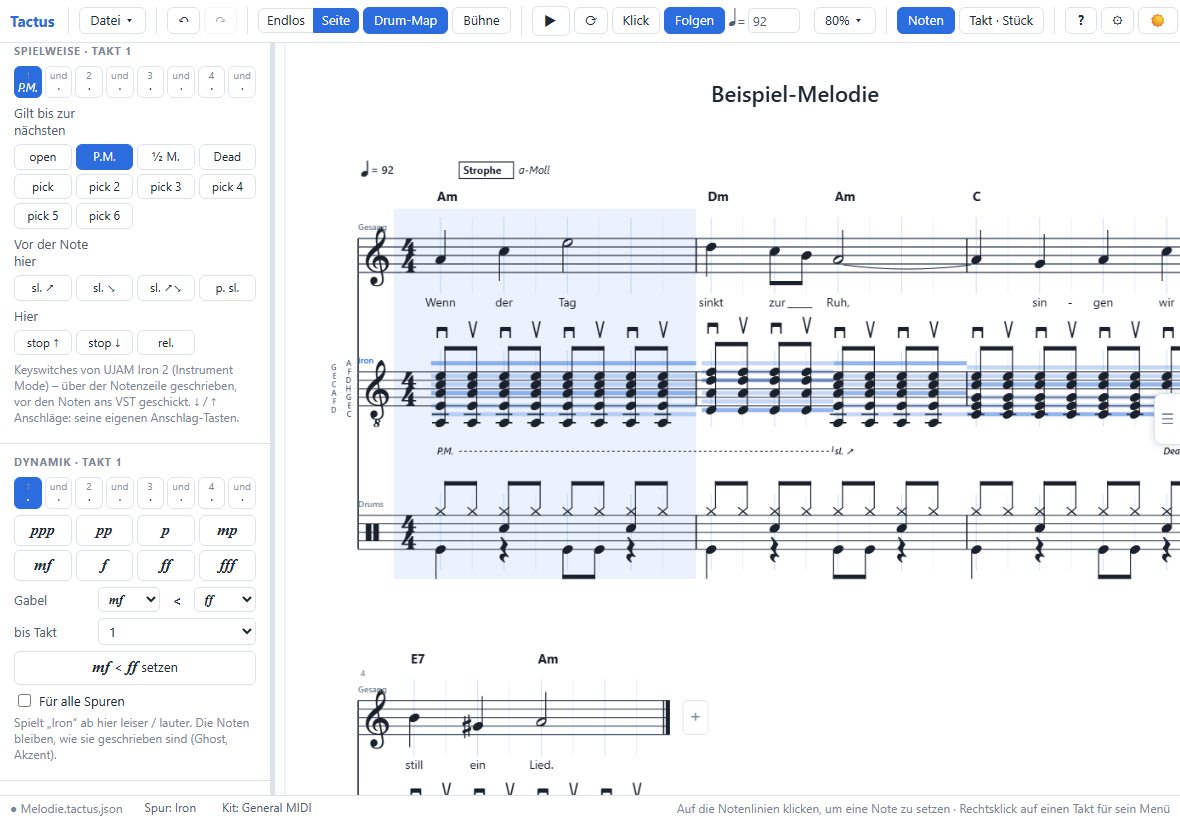
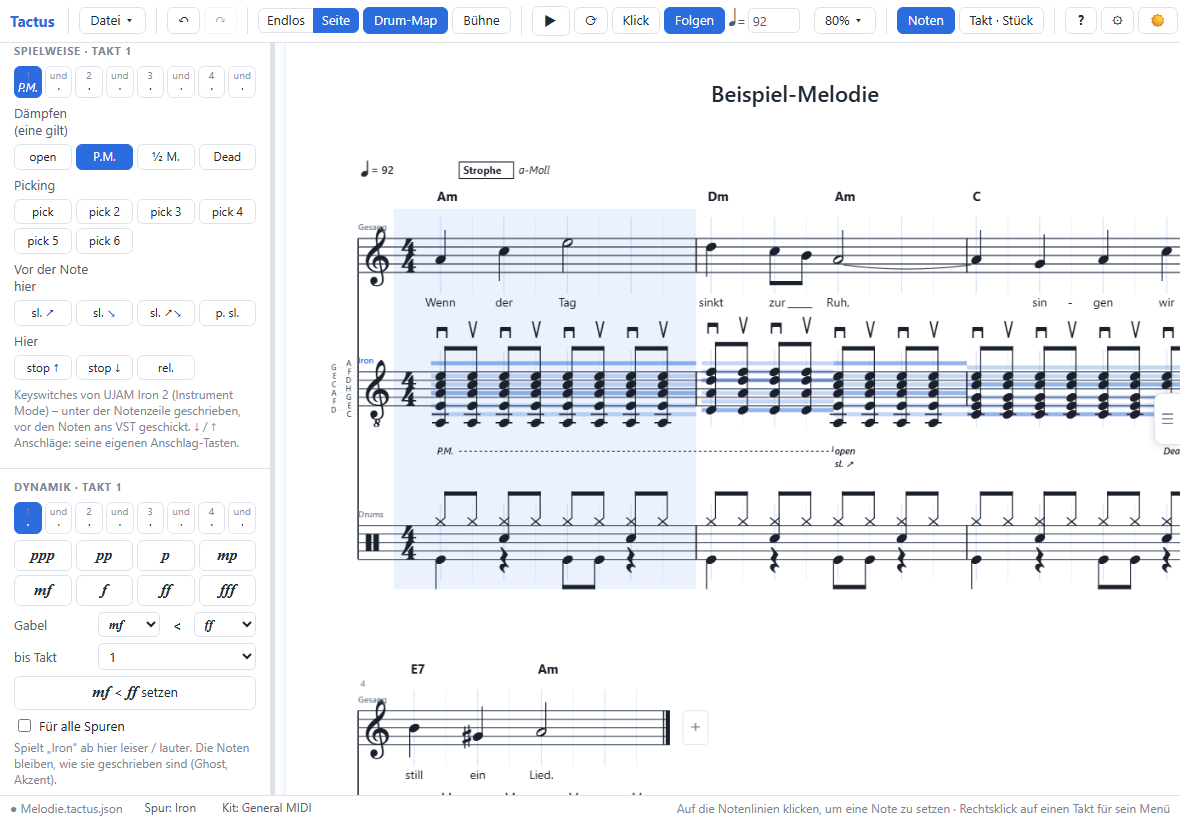
Iron 2 keyswitches after testing: C1 is free - slides on D1 / E1 / F1, pick slide G1; trigger mode on (D#1) sent unseen at the start (else Iron plays no notes); down / up stroke keys held while the chord sounds; open / P.M. / half / dead one group (one holds), picking its own; "open" shown; slides, 

diff --git a/js/keyswitch.js b/js/keyswitch.js
@@ -6,7 +6,9 @@
  *
  *   track.ksw = { tpl, name, c3, keys: [{ id, name, short, note, kind }] }   (only when set; saved with the score)
  *     c3     the MIDI note the VST calls C3 (60 or 48) - its keys and its play range follow it
- *     kind   'art'   a way of playing (dead, muted, half muted, open, picking): held until the next one
+ *     init   keys sent at the start, unseen (Iron: trigger mode on - else its notes do not play)
+ *     group  ways of playing of one group replace each other (Iron: open / muted / half / dead; picking its own)
+ *     kind   'art'   a way of playing (dead, muted, half muted, open, picking): held until the next one of its group
  *            'once'  before the note at its place (a slide)
  *            'event' at its place (stop, release)
  *            'down' / 'up'  sent before a chord struck down / up (note.stroke) - the VST strums it itself
@@ -23,21 +25,23 @@
 
   // UJAM Iron 2, Instrument Mode (the manual's key switch table; play range C3 … F5 = D2 … F4, four tones at a time)
   KS.TEMPLATES = [{
-    tpl: 'ujam-iron2', name: 'UJAM Iron 2 (Instrument Mode)', c3: 60, noteShift: 12, poly: 4,
+    // (checked with Iron 2: C3 = 60; C1 is free - the slides start on D1; D#1 trigger mode on is needed, else the
+    // notes do not play: sent at the start, unseen; open / muted / half / dead exclude each other, picking is its own)
+    tpl: 'ujam-iron2', name: 'UJAM Iron 2 (Instrument Mode)', c3: 60, noteShift: 12, poly: 4, init: ['trigOn'],
     keys: [
-      ['open', 'Open', 'open', 'A#2', 'art'], ['muted', 'Muted (palm mute)', 'P.M.', 'F#2', 'art'],
-      ['half', 'Half muted', '½ M.', 'G#2', 'art'], ['dead', 'Dead notes', 'Dead', 'D#2', 'art'],
-      ['pick1', 'Picking (C2)', 'pick', 'C2', 'art'], ['pick2', 'Picking (D2)', 'pick 2', 'D2', 'art'],
-      ['pick3', 'Picking (E2)', 'pick 3', 'E2', 'art'], ['pick4', 'Picking (F2)', 'pick 4', 'F2', 'art'],
-      ['pick5', 'Picking (G2)', 'pick 5', 'G2', 'art'], ['pick6', 'Picking (A2)', 'pick 6', 'A2', 'art'],
-      ['slideUp', 'Slide up', 'sl. ↗', 'C1', 'once'], ['slideDown', 'Slide down', 'sl. ↘', 'D1', 'once'],
-      ['slideUpDown', 'Slide up & down', 'sl. ↗↘', 'E1', 'once'], ['pickSlide', 'Pick slide', 'p. sl.', 'F1', 'once'],
+      ['open', 'Open', 'open', 'A#2', 'art', 'mute'], ['muted', 'Muted (palm mute)', 'P.M.', 'F#2', 'art', 'mute'],
+      ['half', 'Half muted', '½ M.', 'G#2', 'art', 'mute'], ['dead', 'Dead notes', 'Dead', 'D#2', 'art', 'mute'],
+      ['pick1', 'Picking (C2)', 'pick', 'C2', 'art', 'pick'], ['pick2', 'Picking (D2)', 'pick 2', 'D2', 'art', 'pick'],
+      ['pick3', 'Picking (E2)', 'pick 3', 'E2', 'art', 'pick'], ['pick4', 'Picking (F2)', 'pick 4', 'F2', 'art', 'pick'],
+      ['pick5', 'Picking (G2)', 'pick 5', 'G2', 'art', 'pick'], ['pick6', 'Picking (A2)', 'pick 6', 'A2', 'art', 'pick'],
+      ['slideUp', 'Slide up', 'sl. ↗', 'D1', 'once'], ['slideDown', 'Slide down', 'sl. ↘', 'E1', 'once'],
+      ['slideUpDown', 'Slide up & down', 'sl. ↗↘', 'F1', 'once'], ['pickSlide', 'Pick slide', 'p. sl.', 'G1', 'once'],
       ['up', 'Upstroke', '↑', 'A1', 'up'], ['down', 'Downstroke', '↓', 'B1', 'down'],
       ['stopUp', 'Stop (upstroke)', 'stop ↑', 'G#1', 'event'], ['stopDown', 'Stop (downstroke)', 'stop ↓', 'A#1', 'event'],
       ['release', 'Release', 'rel.', 'C#2', 'event'],
       ['trigOff', 'Trigger mode off', '', 'C#1', 'mode'], ['trigOn', 'Trigger mode on', '', 'D#1', 'mode'],
       ['noArtStrum', 'Disable articulation strumming', '', 'F#1', 'mode'], ['strumAuto', 'Strum – auto', '', 'B2', 'mode'],
-    ].map(([id, name, short, note, kind]) => ({ id, name, short, note, kind })),
+    ].map(([id, name, short, note, kind, group]) => Object.assign({ id, name, short, note, kind }, group ? { group } : {})),
   }];
   KS.KINDS = ['art', 'once', 'event', 'down', 'up', 'mode'];
   KS.template = (id) => KS.TEMPLATES.find((x) => x.tpl === id) || null;
@@ -61,11 +65,18 @@
   /** A profile cleaned (loading a score), or null. */
   KS.clean = function (p) {
     if (!p || typeof p !== 'object' || !Array.isArray(p.keys)) return null;
+    // a profile of a template saved before it was corrected (no init keys yet - Iron: slides one key off, no trigger
+    // mode, no groups): the corrected template, keeping which C3 was chosen
+    const tpl = KS.template(p.tpl);
+    if (tpl && !Array.isArray(p.init)) p = Object.assign(KS.fromTemplate(p.tpl), { c3: p.c3 });
     const keys = p.keys.filter((k) => k && typeof k.id === 'string' && KS.KINDS.includes(k.kind) && KS.noteOf(k.note) !== null)
-      .map((k) => ({ id: k.id.slice(0, 40), name: String(k.name || k.id).slice(0, 60), short: String(k.short || '').slice(0, 12), note: k.note, kind: k.kind }));
+      .map((k) => Object.assign({ id: k.id.slice(0, 40), name: String(k.name || k.id).slice(0, 60), short: String(k.short || '').slice(0, 12), note: k.note, kind: k.kind },
+        typeof k.group === 'string' && k.group ? { group: k.group.slice(0, 20) } : {}));
     if (!keys.length) return null;
+    const ids = new Set(keys.map((k) => k.id));
     return { tpl: typeof p.tpl === 'string' ? p.tpl : '', name: String(p.name || 'Keyswitches').slice(0, 60), c3: p.c3 === 48 ? 48 : 60,
-      noteShift: Number.isInteger(p.noteShift) && Math.abs(p.noteShift) <= 36 ? p.noteShift : 0, poly: Number.isInteger(p.poly) && p.poly > 0 ? p.poly : 0, keys };
+      noteShift: Number.isInteger(p.noteShift) && Math.abs(p.noteShift) <= 36 ? p.noteShift : 0, poly: Number.isInteger(p.poly) && p.poly > 0 ? p.poly : 0,
+      init: Array.isArray(p.init) ? p.init.filter((id) => ids.has(id)) : [], keys };
   };
   /** The key of a keyswitch of a track (its MIDI note), or null. */
   KS.keyOf = (track, id) => {
@@ -82,36 +93,36 @@
    * `at` is the time (seconds or ticks, as timeOf gives it) and `hold` how long a way of playing is held (to the next
    * one, else to `end`). order: [{ bar, t0 }] the bars as played (start times); timeOf(bar order entry, tick).
    */
-  KS.events = function (doc, track, order, timeOf, end, startArt) {
+  KS.events = function (doc, track, order, timeOf, end, startArts) {
     if (!track.ksw) return [];
-    const out = [];
-    let art = null;
-    // the way of playing that holds where the playing starts (set before it)
-    if (startArt) {
-      const k = KS.keyOf(track, startArt);
-      if (k) art = { at: timeOf(order[0], 0), key: k.midi };
-    }
+    const out = [], art = new Map(), start = timeOf(order[0], 0); // (the way of playing held now, per group)
+    // keys sent at the start, unseen (trigger mode on), first of all
+    (track.ksw.init || []).forEach((id) => { const k = KS.keyOf(track, id); if (k && k.midi !== null) out.push({ at: start, key: k.midi, hold: 0, init: true }); });
+    // the ways of playing that hold where the playing starts (set before it)
+    (startArts || []).forEach((id) => { const k = KS.keyOf(track, id); if (k) art.set(k.group || 'art', { at: start, key: k.midi }); });
     for (const o of order) {
       const bar = track.bars[o.bar];
       for (const m of (bar && bar.ks) || []) {
         const k = KS.keyOf(track, m.k);
         if (!k || k.midi === null) continue;
-        const at = timeOf(o, m.t);
+        const at = timeOf(o, m.t), g = k.group || 'art';
         if (k.kind === 'art') {
-          if (art) out.push({ at: art.at, key: art.key, hold: Math.max(0, at - art.at) });
-          art = { at, key: k.midi };
+          const before = art.get(g);
+          if (before) out.push({ at: before.at, key: before.key, hold: Math.max(0, at - before.at) });
+          art.set(g, { at, key: k.midi });
         } else out.push({ at, key: k.midi, hold: 0 });
       }
     }
-    if (art) out.push({ at: art.at, key: art.key, hold: Math.max(0, end - art.at) });
-    return out.sort((a, b) => a.at - b.at);
+    art.forEach((a) => out.push({ at: a.at, key: a.key, hold: Math.max(0, end - a.at) }));
+    return out.sort((a, b) => a.at - b.at || (b.init ? 1 : 0) - (a.init ? 1 : 0));
   };
-  /** The way of playing written last before bar `bi` (its id), or null. */
+  /** The ways of playing written last before bar `bi` - one per group (their ids). */
   KS.artBefore = function (track, bi) {
+    const got = new Map();
     for (let i = bi - 1; i >= 0; i--) {
-      const list = ((track.bars[i] && track.bars[i].ks) || []).filter((m) => { const k = KS.keyOf(track, m.k); return k && k.kind === 'art'; });
-      if (list.length) return list[list.length - 1].k;
+      const list = ((track.bars[i] && track.bars[i].ks) || []).map((m) => KS.keyOf(track, m.k)).filter((k) => k && k.kind === 'art');
+      for (let j = list.length - 1; j >= 0; j--) if (!got.has(list[j].group || 'art')) got.set(list[j].group || 'art', list[j].id);
     }
-    return null;
+    return [...got.values()];
   };
 })(window.TC);

diff --git a/tools/tests/test_keyswitch.js b/tools/tests/test_keyswitch.js
@@ -14,7 +14,10 @@ module.exports = function (T) {
   const iron = KS.fromTemplate('ujam-iron2');
   const keyOf = (id) => iron.keys.find((k) => k.id === id);
   T.eq('Iron 2: open A#2, muted F#2, half G#2, dead D#2, release C#2, downstroke B1 (the manual)', ['open', 'muted', 'half', 'dead', 'release', 'down'].map((id) => keyOf(id).note), ['A#2', 'F#2', 'G#2', 'D#2', 'C#2', 'B1']);
-  T.eq('Iron 2: notes an octave up, four tones', [iron.noteShift, iron.poly, iron.c3], [12, 4, 60]);
+  T.eq('Iron 2: notes an octave up, four tones, trigger mode on (D#1) at the start', [iron.noteShift, iron.poly, iron.c3, iron.init], [12, 4, 60, ['trigOn']]);
+  T.eq('Iron 2: C1 free - the slides start on D1, pick slide G1, upstroke A1', ['slideUp', 'slideDown', 'slideUpDown', 'pickSlide', 'up'].map((id) => keyOf(id).note), ['D1', 'E1', 'F1', 'G1', 'A1']);
+  const oldP = KS.clean({ tpl: 'ujam-iron2', name: 'x', c3: 48, keys: [{ id: 'slideUp', name: 'Slide up', note: 'C1', kind: 'once' }] });
+  T.eq('a profile saved before the correction: the corrected template, its C3 kept', [oldP.keys.find((k) => k.id === 'slideUp').note, oldP.init, oldP.c3], ['D1', ['trigOn'], 48]);
   T.eq('cleaned: unknown kinds and keys left out', KS.clean({ name: 'x', keys: [{ id: 'a', note: 'C1', kind: 'art' }, { id: 'b', note: 'Q9', kind: 'art' }, { id: 'c', note: 'C1', kind: 'nope' }] }).keys.map((k) => k.id), ['a']);
 
   // ---- a track with the profile, ways of playing written
@@ -34,9 +37,10 @@ module.exports = function (T) {
   // ---- playback: held to the next one, the slide before its note
   const hits = TC.timeline.build(doc).hits.filter((h) => h.ks !== undefined);
   const L0 = TC.timeline.LEAD;
-  const muted = hits.find((h) => h.ks === 54), open = hits.find((h) => h.ks === 58), slide = hits.find((h) => h.ks === 36);
+  const muted = hits.find((h) => h.ks === 54), open = hits.find((h) => h.ks === 58), slide = hits.find((h) => h.ks === 38);
   T.eq('muted (F#2) held from bar 1 to bar 2 beat 3, just before', [Math.round((muted.t - L0) * 1000), Math.round(muted.dur * 100) / 100], [-20, 3]);
   T.eq('open then, to the end; the slide at the same place, short', [Math.round((open.t - L0) * 100) / 100, Math.round(open.dur * 100) / 100, Math.round((slide.t - L0) * 100) / 100, slide.dur], [2.98, 3, 2.98, 0.05]);
+  T.eq('trigger mode on (D#1 = 39) at the start, before everything', hits.filter((h) => h.ks === 39).map((h) => Math.round((h.t - L0) * 1000)), [-20]);
   const fromBar2 = TC.timeline.build(doc, { from: 1 }).hits.filter((h) => h.ks === 54);
   T.eq('playing from bar 2: the way of playing set before it is sent at the start', fromBar2.length === 1 && Math.abs(fromBar2[0].t - (L0 - 0.02)) < 1e-6, true);
 
@@ -45,11 +49,15 @@ module.exports = function (T) {
   const sev = SC.place(doc, g, 2, 0, 0, 1920, Object.assign(TC.newPitchNote(48, null, {}), { stroke: 'd' }));
   SC.place(doc, g, 2, 0, 0, 1920, Object.assign(TC.newPitchNote(52, null, {}), { stroke: 'd' }));
   const h2 = TC.timeline.build(doc).hits.filter((h) => h.trk === g && h.t > L0 + 3.9);
-  T.eq('a down stroke: Downstroke (B1 = 47) just before, the tones together', [h2.some((h) => h.ks === 47), new Set(h2.filter((h) => h.pitch !== undefined && h.t < L0 + 4.1).map((h) => h.t)).size], [true, 1]);
+  const dk = h2.find((h) => h.ks === 47);
+  T.eq('a down stroke: Downstroke (B1 = 47) just before, held while the chord sounds, the tones together', [!!dk, dk && Math.round(dk.dur * 100) / 100, new Set(h2.filter((h) => h.pitch !== undefined && h.t < L0 + 4.1).map((h) => h.t)).size], [true, 1.01, 1]);
+  // picking is its own group: held alongside the muting
+  const gp = KS.events(doc, Object.assign({}, g, { bars: [{ ks: [{ t: 0, k: 'muted' }, { t: 0, k: 'pick1' }] }, { ks: [{ t: 0, k: 'dead' }] }, {}] }), [{ bar: 0, t0: 0 }, { bar: 1, t0: 10 }, { bar: 2, t0: 20 }], (o, k) => o.t0, 30, []);
+  T.eq('groups: dead replaces muted (bar 2), picking holds on to the end', gp.filter((e) => !e.init).map((e) => [e.key, e.at, e.hold]), [[54, 0, 10], [48, 0, 30], [51, 10, 20]]);
 
   // ---- MIDI export: notes an octave up, the keyswitches with their holds
   const m = TC.midi.read(TC.midi.build(doc, null, { tracks: [g] }).bytes);
-  T.eq('MIDI: the notes an octave up (E2 → 52), the keys as they are (F#2 54, A#2 58, C1 36, B1 47)', [m.notes.some((n) => n.note === 52), m.notes.some((n) => n.note === 40), [54, 58, 36, 47].every((k) => m.notes.some((n) => n.note === k))], [true, false, true]);
+  T.eq('MIDI: the notes an octave up (E2 → 52), the keys as they are (F#2 54, A#2 58, D1 38, B1 47, D#1 39)', [m.notes.some((n) => n.note === 52), m.notes.some((n) => n.note === 40), [54, 58, 38, 47, 39].every((k) => m.notes.some((n) => n.note === k))], [true, false, true]);
   const mutedOn = m.notes.find((n) => n.note === 54);
   T.eq('MIDI: muted just before bar 1', mutedOn.t, 0);
   void sev;

diff --git a/js/render.js b/js/render.js
@@ -179,14 +179,17 @@
       // staff and the tab of a guitar part) - the lyrics and the dynamics below it
       if (track.ksw && !track.lh && track.bars.some((b) => b.ks)) {
         z.ksY = Math.max(6.0 * SP, ...bars.map((b) => lowestInk(b.parts[k]) + 1.6 * SP));
-        if (z.lyrRows) z.lyrY = Math.max(z.lyrY, z.ksY + 2.2 * SP);
-        z.below = Math.max(belowOf(z, under), z.ksY + 1.4 * SP);
+        // (slides, stops, release: a row of their own under the ways of playing - they do not cover each other)
+        const once = TC.ksw && track.bars.some((b) => (b.ks || []).some((m) => { const x = TC.ksw.keyOf(track, m.k); return x && x.kind !== 'art'; }));
+        z.ksY2 = once ? z.ksY + 1.5 * SP : z.ksY;
+        if (z.lyrRows) z.lyrY = Math.max(z.lyrY, z.ksY2 + 2.2 * SP);
+        z.below = Math.max(belowOf(z, under), z.ksY2 + 1.4 * SP);
       }
       // dynamics (ppp … fff, hairpins): a row under the staff - drums between the stems and the counting, a melody
       // under its lowest note or under its lyrics (a piano: once, under the right hand - its left hand has the same)
       if (!track.lh && track.bars.some((b) => b.dyn)) {
         const low = track.kind === 'pitched' ? Math.max(6.8 * SP, ...bars.map((b) => lowestInk(b.parts[k]) + 2.2 * SP)) : 9.6 * SP;
-        z.dynY = z.lyrRows ? lyrEnd(z) + 2.4 * SP : z.ksY !== undefined ? Math.max(low, z.ksY + 2.4 * SP) : low;
+        z.dynY = z.lyrRows ? lyrEnd(z) + 2.4 * SP : z.ksY !== undefined ? Math.max(low, z.ksY2 + 2.4 * SP) : low;
         z.below = Math.max(z.below, z.dynY + 1.6 * SP + (under && track.kind === 'pitched' ? 3.4 * SP : 0));
       }
       dy += 4 * SP + (z.below + STAFF_ABOVE) * gap;
@@ -1091,18 +1094,24 @@
         ((tk.bars[b.i] && tk.bars[b.i].ks) || []).forEach((m) => {
           const k = TC.ksw.keyOf(tk, m.k);
           if (!k) return;
+          // (a way of playing in the first row - "open" too; a slide, a stop, release in the row under it)
           const x = RD.tickX(b, m.t) - 0.4 * SP, txt = k.short || k.name;
-          if (!/^open$/i.test(txt)) OS(b, z).push(`<text class="ks-mark" x="${f(x)}" y="${f(y)}">${esc(txt)}</text>`);
+          OS(b, z).push(`<text class="ks-mark${k.kind === 'art' ? '' : ' once'}" x="${f(x)}" y="${f(k.kind === 'art' ? y : z.ksY2)}">${esc(txt)}</text>`);
         });
       }
       // the lines of the ways of playing: from each to the next (in written order), over line breaks
       const arts = [];
       tk.bars.forEach((bar, bi) => ((bar && bar.ks) || []).forEach((m) => {
         const k = TC.ksw.keyOf(tk, m.k);
-        if (k && k.kind === 'art') arts.push({ abs: at(bi, m.t), txt: k.short || k.name });
+        if (k && k.kind === 'art') arts.push({ abs: at(bi, m.t), txt: k.short || k.name, g: k.group || '' });
       }));
       arts.sort((a, b) => a.abs - b.abs);
-      arts.forEach((a, n) => { if (!/^open$/i.test(a.txt)) spans.push({ a: a.abs, e: n + 1 < arts.length ? arts[n + 1].abs : at(doc.bars.length, 0), w: a.txt.length * 0.6 * SP + 0.4 * SP }); });
+      // (to the next way of playing of its group - "open" has no line)
+      arts.forEach((a, n) => {
+        if (/^open$/i.test(a.txt)) return;
+        const next = arts.slice(n + 1).find((x) => x.g === a.g);
+        spans.push({ a: a.abs, e: next ? next.abs : at(doc.bars.length, 0), w: a.txt.length * 0.6 * SP + 0.4 * SP });
+      });
       for (const sp of spans) {
         for (const s of L.systems) {
           const fb = L.bars[s.first], lb = L.bars[s.last], s0 = at(fb.i, 0), s1 = at(lb.i, lb.L);

diff --git a/hilfe.html b/hilfe.html
@@ -539,7 +539,7 @@ Abspielen und im MIDI-Export die richtige Taste kurz vor die Noten.</p>
     Iron muss „Muted“ aufleuchten. Liegt alles eine Oktave daneben: oben <span class="ui">C3 = MIDI 60 / 48</span> umschalten. Eine einzelne
     falsche Taste lässt sich im Feld daneben ändern (z. B. <code>F#2</code>).</li>
   <li>Spielweisen setzen: Takt antippen, im Noten-Panel links unter <span class="ui">Spielweise</span> die Stelle wählen und z. B.
-    <span class="ui">P.M.</span>. <b>Gilt bis zur nächsten</b> (open, P.M., ½ M., Dead, Picking): Tactus hält die Taste gedrückt, bis die nächste
+    <span class="ui">P.M.</span>. <b>Dämpfen</b> (open, P.M., ½ M., Dead – eine gilt, die nächste löst sie ab) und <b>Picking</b> (eigene Gruppe): Tactus hält die Taste gedrückt, bis die nächste
     kommt – das klappt mit Latch an und aus. <b>Vor der Note hier</b> (Slides): kurz vor der Note. <b>Hier</b> (Stop, Release): an der Stelle.
     Dieselbe noch einmal antippen nimmt sie weg.</li>
 </ol>
@@ -548,6 +548,8 @@ Abspielen und im MIDI-Export die richtige Taste kurz vor die Noten.</p>
     – Iron schlägt den Akkord selbst an.</li>
   <li>Iron spielt die Gitarre eine Oktave höher als sie klingt und höchstens <b>vier Töne</b> zugleich: Tactus schickt die Noten passend
     verschoben, angetippte Akkorde werden enge Griffe (4 Saiten). Im Notenbild steht alles, wie es klingt.</li>
+  <li>Iron braucht den <b>Trigger Mode</b> (D#1), sonst spielen die Noten nicht: Tactus schickt ihn beim Start unsichtbar mit. Slides, Stop und
+    Release stehen in einer eigenen Reihe unter den Spielweisen.</li>
   <li>Das Profil wird mit dem Stück gespeichert (auch deine geänderten Tasten). MusicXML schreibt die Spielweisen als Text über die Noten.</li>
 </ul>
 <figure><img src="help/img/keyswitch.png" alt="Eine Gitarre mit UJAM Iron 2: P.M. über anderthalb Takte, dann ein Slide und Dead Notes; links das Panel Spielweise"><figcaption>Eine Gitarren-Spur mit UJAM Iron 2: „P.M.“ gilt bis zum Open in Takt 2, dort ein Slide, in Takt 3 Dead Notes. Links das Noten-Panel mit den Spielweisen von Iron.</figcaption></figure>

diff --git a/js/panel.js b/js/panel.js
@@ -416,13 +416,16 @@
     const where = slots.length > 1 ? `<div class="chord-slots" style="grid-template-columns: repeat(${Math.min(8, slots.length)}, 1fr)">${slots.map((x) =>
       btn('setChordSlot', x, `<small>${esc(short(x))}</small><i>${esc(at(x).map(label).join(' ') || '·')}</i>`, x === slot, TC.rhythm.countLabel(x, ts), TC.rhythm.countLabel(x, ts).includes(' ') ? 'off-beat' : '')).join('')}</div>` : '';
     const here = new Set(at(slot).map((m) => m.k));
-    const group = (kind, title) => {
-      const keys = KS.scoreKeys(t).filter((k) => k.kind === kind);
+    const group = (kind, title, g) => {
+      const keys = KS.scoreKeys(t).filter((k) => k.kind === kind && (g === undefined || (k.group || '') === g));
       return keys.length ? `<div class="row"><label>${tr(title)}</label></div><div class="ks-pal">${keys.map((k) => btn('setKs', k.id, esc(k.short || k.name), here.has(k.id), k.name)).join('')}</div>` : '';
     };
+    // the ways of playing by their group (one of a group holds at a time; picking is its own)
+    const groups = [...new Set(KS.scoreKeys(t).filter((k) => k.kind === 'art').map((k) => k.group || ''))];
+    const GROUP = { mute: 'Muting (one holds)', pick: 'Picking', '': 'Holds until the next' };
     return `<section><h3>${tr('Way of playing')} · ${tr('Bar {n}', { n: i + 1 })}</h3>
       ${where}
-      ${group('art', 'Holds until the next')}${group('once', 'Before the note here')}${group('event', 'Here')}
+      ${groups.map((g) => group('art', GROUP[g] || g, g)).join('')}${group('once', 'Before the note here')}${group('event', 'Here')}
       <p class="hint tight">${esc(tr('Keyswitches of {name} - written under the staff, sent to the VST before the notes. ↓ / ↑ strokes: its own stroke keys.', { name: t.ksw.name }))}</p>
     </section>`;
   }

diff --git a/js/midi.js b/js/midi.js
@@ -171,7 +171,7 @@
                 const own = n.stroke && TC.ksw && TC.ksw.strums(track);
                 if (own && n === e.notes[0]) {
                   const k = track.ksw.keys.find((x) => x.kind === (n.stroke === 'u' ? 'up' : 'down')), kn = k && TC.ksw.noteOf(k.note, track.ksw.c3);
-                  if (kn !== null && kn !== undefined) { put(Math.max(0, a - KS_TICKS), 0, [0x90 | ch, kn, 100]); put(Math.max(0, a - KS_TICKS) + NOTE_LEN, 1, [0x80 | ch, kn, 0]); }
+                  if (kn !== null && kn !== undefined) { put(Math.max(0, a - KS_TICKS), 0, [0x90 | ch, kn, 100]); put(Math.max(Math.max(0, a - KS_TICKS) + 1, Math.round(end - 10)), 1, [0x80 | ch, kn, 0]); } // (held while the chord sounds)
                 }
                 const sp = n.stroke && !own ? msTicks(T.strum(e, n) * 1000) : 0;
                 // (a VST that plays its notes shifted - keyswitch profile, Iron: an octave up)

diff --git a/js/actions.js b/js/actions.js
@@ -1438,7 +1438,9 @@
   A.setKs = function (id) {
     const t = TC.curTrack(), i = curBar(), at = chordTick(i), k = TC.ksw.keyOf(t, id);
     if (!k || !t.bars[i]) return;
-    const bar = t.bars[i], list = (bar.ks || []).filter((m) => m.t !== at || TC.ksw.keyOf(t, m.k).kind !== k.kind || m.k === id);
+    // (one of a kind - a way of playing: one of its group - at a place)
+    const same = (m) => { const o = TC.ksw.keyOf(t, m.k); return o && o.kind === k.kind && (k.kind !== 'art' || (o.group || '') === (k.group || '')); };
+    const bar = t.bars[i], list = (bar.ks || []).filter((m) => m.t !== at || !same(m) || m.k === id);
     const had = list.some((m) => m.t === at && m.k === id);
     const out = had ? list.filter((m) => !(m.t === at && m.k === id)) : list.concat([{ t: at, k: id }]);
     if (out.length) bar.ks = out.sort((a, b) => a.t - b.t);

diff --git a/js/i18n.js b/js/i18n.js
@@ -373,6 +373,8 @@
     'Way of playing': 'Spielweise',
     'Tap a bar: muted, dead notes, a slide … from a place in it.': 'Einen Takt antippen: gedämpft, Dead Notes, ein Slide … ab einer Stelle darin.',
     'Holds until the next': 'Gilt bis zur nächsten',
+    'Muting (one holds)': 'Dämpfen (eine gilt)',
+    'Picking': 'Picking',
     'Before the note here': 'Vor der Note hier',
     'Keyswitches of {name} - written under the staff, sent to the VST before the notes. ↓ / ↑ strokes: its own stroke keys.': 'Keyswitches von {name} – unter der Notenzeile geschrieben, vor den Noten ans VST geschickt. ↓ / ↑ Anschläge: seine eigenen Anschlag-Tasten.',
     '{name}: its ways of playing in the note panel; check the keys with ▶ (Tracks & sound).': '{name}: seine Spielweisen im Noten-Panel; die Tasten mit ▶ prüfen (Spuren & Klang).',

diff --git a/js/playback.js b/js/playback.js
@@ -130,7 +130,7 @@
                 if (own && n === ev.notes[0]) {
                   const k = track.ksw.keys.find((x) => x.kind === (n.stroke === 'u' ? 'up' : 'down'));
                   const key = k && TC.ksw.noteOf(k.note, track.ksw.c3);
-                  if (key !== null && key !== undefined) hits.push({ t: t0 - T.KS_LEAD, ks: key, dur: 0.05, trk: track });
+                  if (key !== null && key !== undefined) hits.push({ t: t0 - T.KS_LEAD, ks: key, dur: Math.max(0.05, t1 - t0 - 0.01) + T.KS_LEAD, trk: track }); // (held while the chord sounds)
                 }
                 const sp = n.stroke && !own ? T.strum(ev, n) : 0;
                 const hit = { t: t0 + sp, pitch: n.pitch, dur: Math.max(0.05, t1 - t0 - sp - 0.02), vel: loud(T.velocity(n), df(bi, ev.tick)), trk: track, end: t1 };

diff --git a/sw.js b/sw.js
@@ -6,7 +6,7 @@
  * Network first: online you always get the current files, the cache is only the offline copy.
  * New file in index.html? Add it to FILES, so it is there offline from the start.
  */
-const CACHE = 'tactus-v94';
+const CACHE = 'tactus-v95';
 const SAMPLES = 'tactus-samples-v1'; // samples/*.flac (new version only when the recordings change)
 const FILES = [
   './',

diff --git a/plans/plan.md b/plans/plan.md
@@ -799,5 +799,7 @@ Ziel: live mit Backing-Tracks (Cymatic) spielen, die Seiten blättern sich im Ta
   +12; angetippte Akkorde bei `poly` ≤ 4 enge Griffe. Notenbild: Kürzel unter der Zeile, gehaltene mit gestrichelter Linie und Haken
   („open“ ohne Text). Panel: „Spuren & Klang“ → Keyswitches (Vorlage, C3, Tasten prüfen ▶ / ändern), Noten-Panel „Spielweise“.
   MusicXML: Text über den Noten. Tests: `test_keyswitch.js` (16), Klick-Test (2), Bild `keyswitch.png`, Handbuch Kap. 8 „Keyswitches“.
-- **Zu prüfen beim Nutzer:** C3 = 60 oder 48 bei Iron (▶ bei Muted), Upstroke A1 / Pick Slide F1 (aus dem Bild gelesen), was die sechs
+- **Nach dem Test (2026-11-16):** C3 = 60 stimmt; C1 frei, Slides D1 E1 F1, Pick Slide G1; Trigger Mode On (D#1) muss mit (`ksw.init`,
+  beim Start unsichtbar); Stroke-Tasten werden gehalten, solange der Akkord klingt; Gruppen `mute` (open / P.M. / ½ M. / Dead) und `pick`;
+  „open“ sichtbar; Slides / Stop / Release eigene Reihe. Alte Iron-Profile werden beim Laden auf die Vorlage gebracht. **Noch zu prüfen:** was die sechs
   Picking-Tasten C2 … A2 einzeln tun. **Offen:** eigene Profile anlegen / weitere Vorlagen; Spielweisen über das Notenmenü.
